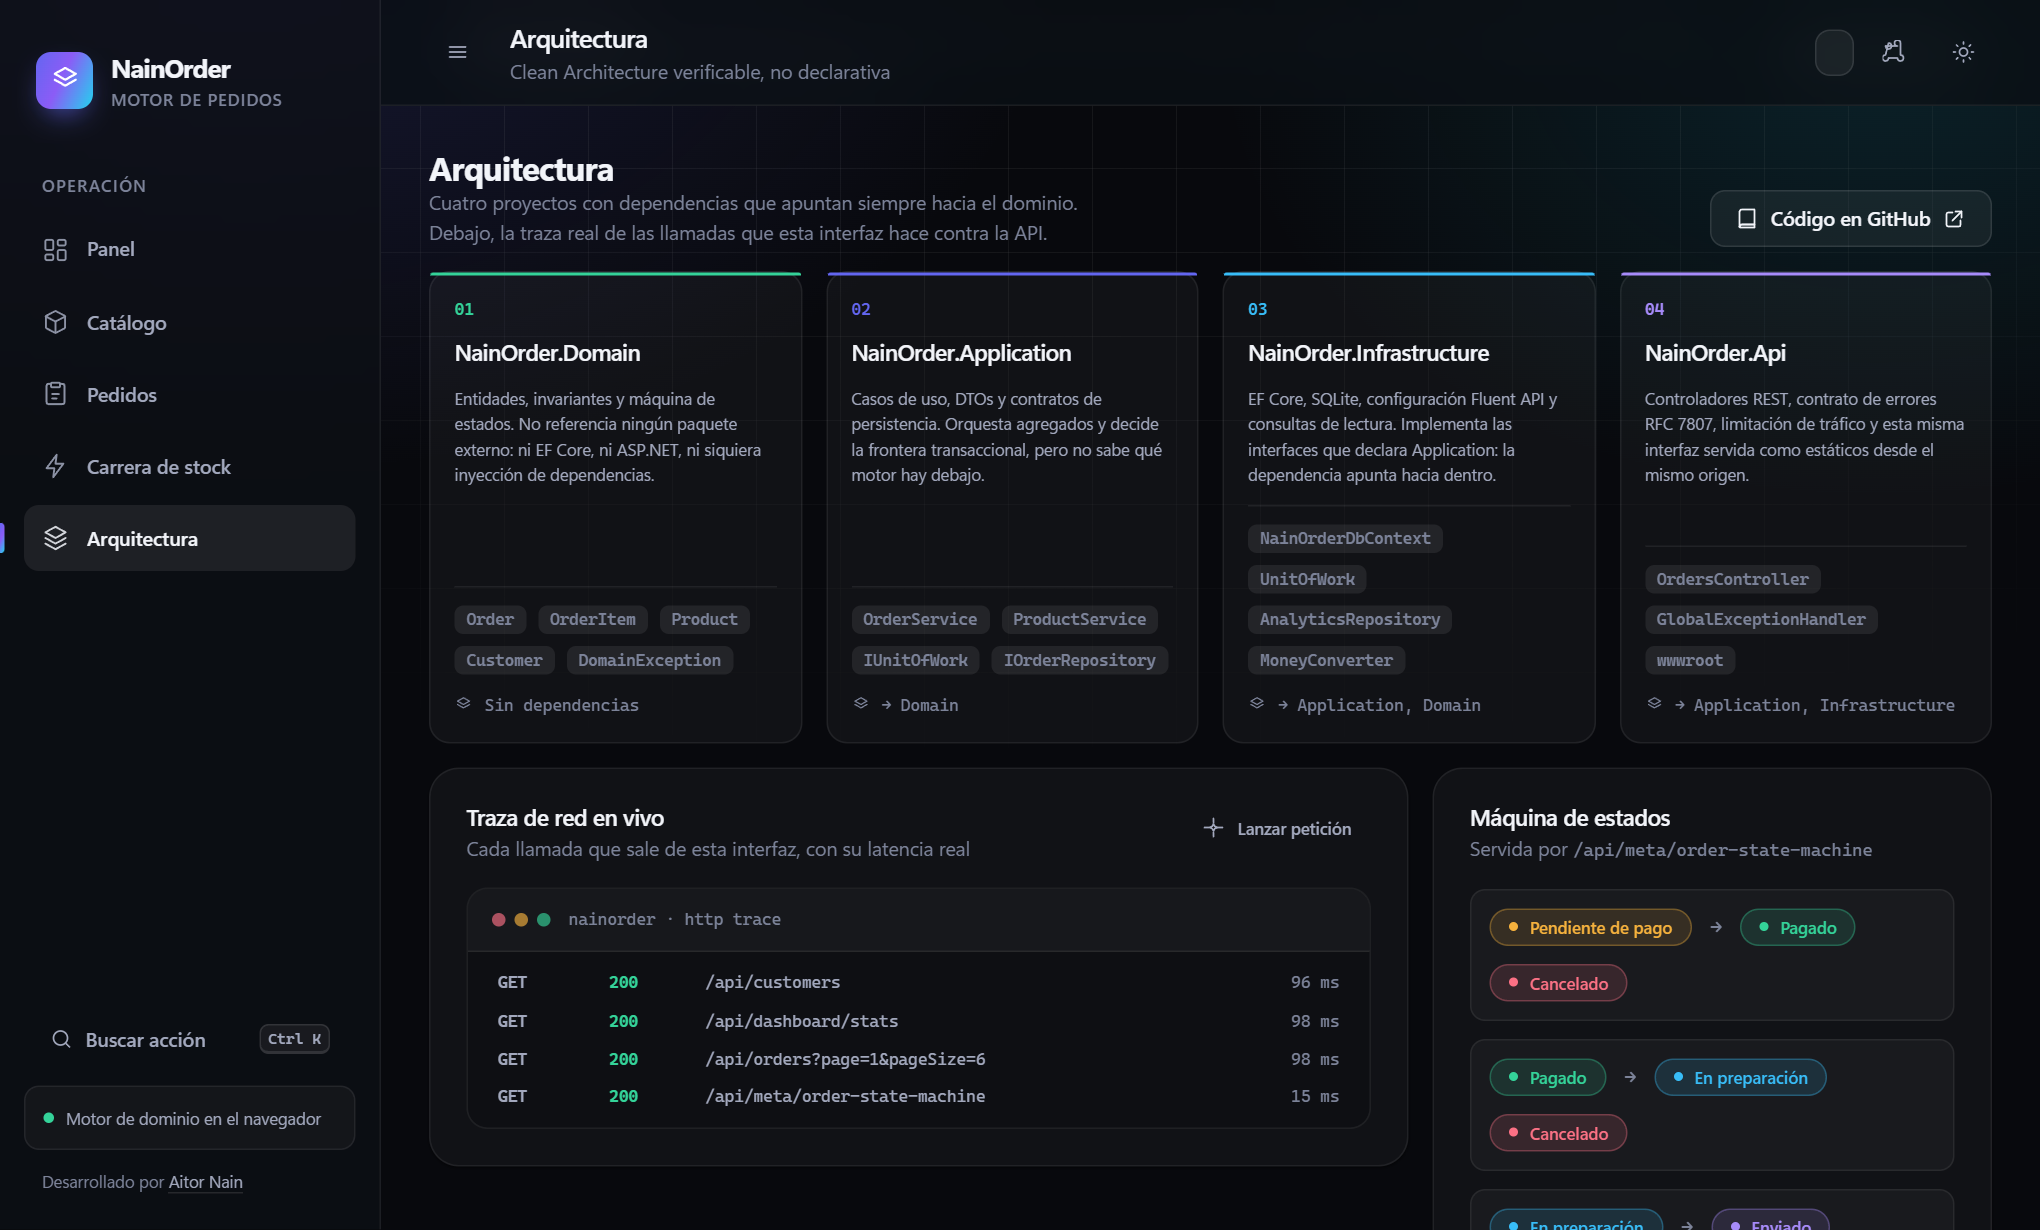
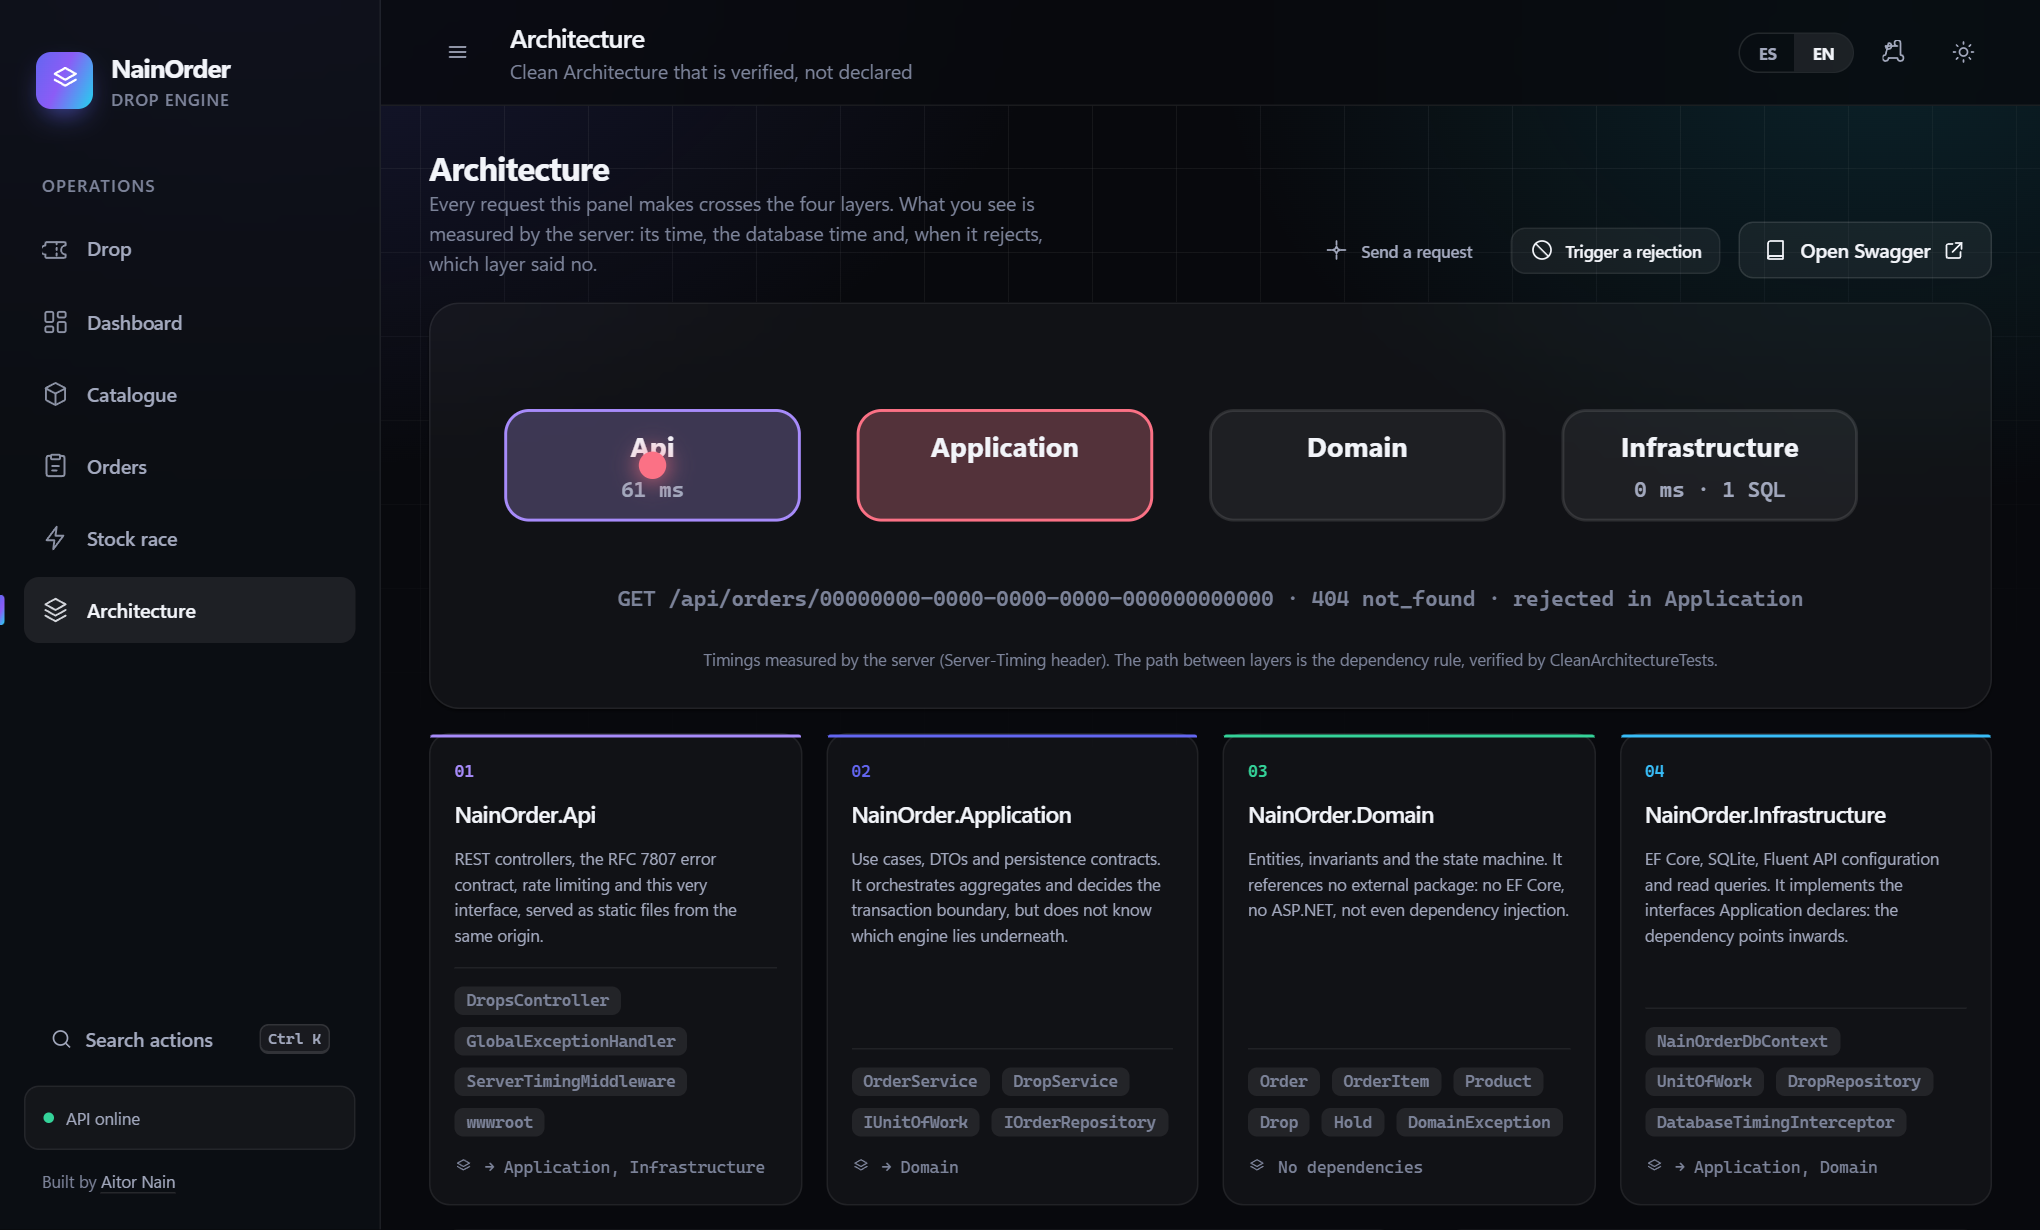
docs: show the live request map and trace REQ-110 to REQ-113
The README's architecture section opens with two captures of the live
map (a success and a rejection) and folds the static figure. Spec 005
records the honesty rule: the map draws only what the server states.
Requirements, traceability, changelog and the spec's tasks are updated.

diff --git a/README.md b/README.md
@@ -11,7 +11,7 @@
 [![ci](https://github.com/Nain9Dev/NainOrder/actions/workflows/ci.yml/badge.svg)](https://github.com/Nain9Dev/NainOrder/actions/workflows/ci.yml)
 [![CodeQL](https://github.com/Nain9Dev/NainOrder/actions/workflows/codeql.yml/badge.svg)](https://github.com/Nain9Dev/NainOrder/actions/workflows/codeql.yml)
 ![.NET 10](https://img.shields.io/badge/.NET-10-512BD4)
-![Tests](https://img.shields.io/badge/tests-123%20.NET%20%2B%2025%20browser-2ea44f)
+![Tests](https://img.shields.io/badge/tests-130%20.NET%20%2B%2029%20browser-2ea44f)
 ![Client dependencies](https://img.shields.io/badge/client%20dependencies-0-22d3ee)
 [![Live demo](https://img.shields.io/badge/live%20demo-order.naindev.com-8b5cf6)](https://order.naindev.com/)
 
@@ -66,14 +66,27 @@ flowchart LR
 
 ---
 
-## Architecture
+## Architecture, live
 
+<p align="center">
+  <img src="docs/assets/request-map.png" alt="Request map: a request crossing Api, Application, Domain and Infrastructure, with the server's measured time and database time" width="92%">
+</p>
+
+<p align="center">
+  <img src="docs/assets/request-map-rejected.png" alt="The same map for a rejected request: the dot stops at Application, which the server named as the layer that said no" width="92%">
+</p>
+
+Every request the panel makes crosses the four layers on screen. Nothing is guessed: the server sends
+its own timings (`Server-Timing`) and, for a rejection, the **layer that said no** (`layer` in the
+problem document). The order of the layers is the dependency rule, and `NetArchTest` fails the build
+if `Domain` references anything or `Application` learns about EF Core.
+
+<details>
+<summary>The four layers, static</summary>
 <p align="center">
   <img src="docs/assets/architecture.svg" alt="Four nested layers: Api, Infrastructure, Application and Domain. Dependencies point inwards." width="92%">
 </p>
-
-The rule is **enforced, not declared**: `NetArchTest` fails the build if `Domain` references anything or
-`Application` learns about EF Core.
+</details>
 
 <p align="center">
   <img src="docs/assets/panel-race.png" alt="Stock race: 24 buyers compete for 5 units; 5 win, 19 are rejected" width="46%">
@@ -94,7 +107,8 @@ The panel is plain ES modules served by the API itself: no npm, no build step, n
 | Stock is never oversold, even in a race | `StockRaceTests`, `ConcurrencyTests` |
 | Two writers on one order never lose an update | `OrderAggregateConcurrencyProbe` |
 | Domain has zero dependencies | `CleanArchitectureTests` |
-| The QR code is the buyer link, the shell works offline, the phone layout fits | `e2e/` — 25 browser tests (Playwright) against the real app, QR decoded by an independent library |
+| The QR code is the buyer link, the shell works offline, the phone layout fits | `e2e/` — 29 browser tests (Playwright) against the real app, QR decoded by an independent library |
+| The request map shows measured figures, never estimates | `RequestObservabilityTests`: `Server-Timing` and the `layer` of every rejection come from the server |
 | The shipped container works | CI builds the image and probes it |
 
 Every requirement maps to a test in [`docs/50-traceability.md`](docs/50-traceability.md).
@@ -112,8 +126,8 @@ Open <http://localhost:8170> → **Try as a buyer** or **Try as an organizer**. 
 and `/health`. No database to install: SQLite creates itself.
 
 ```bash
-dotnet test NainOrder.slnx -c Release          # 123 tests
-cd e2e && npm ci && npx playwright test        # 25 browser tests (starts the app itself)
+dotnet test NainOrder.slnx -c Release          # 130 tests
+cd e2e && npm ci && npx playwright test        # 29 browser tests (starts the app itself)
 docker build -t nainorder . && docker run -p 8080:8080 nainorder
 ```
 

diff --git a/docs/50-traceability.md b/docs/50-traceability.md
@@ -1,6 +1,6 @@
 # Traceability
 
-**Status:** Active · verified against green runs of `dotnet test NainOrder.slnx -c Release` (123/123 tests) and `npx playwright test` in `e2e/` (25/25 browser tests)
+**Status:** Active · verified against green runs of `dotnet test NainOrder.slnx -c Release` (130/130 tests) and `npx playwright test` in `e2e/` (29/29 browser tests)
 
 Every requirement in [10-requirements.md](10-requirements.md) and the test that demonstrates it.
 A requirement with no test is not done, whatever the code says.
@@ -19,6 +19,7 @@ Test suites:
 | `Api.DropFlowTests` | Integration, concurrent | Drops over HTTP with a hand-moved clock, a 40-buyer crowd and UTC serialisation |
 | `e2e/tests/*.spec.ts` | Browser (Playwright), real application | Landing, roles, language, buyer link and QR, offline shell, 360 px layout |
 | `Api.PwaAssetsTests` | Contract | Manifest, icons and service-worker precache list match the files served |
+| `Api.RequestObservabilityTests` | Integration over HTTP | `Server-Timing` and the `layer` of every rejection: the facts the request map draws |
 | `Api.I18nParityTests` | Contract | Both panel languages define the same keys and placeholders |
 | `Api.StockRaceTests` | Integration, concurrent | The on-demand race: many buyers, few units, verdict from persisted stock |
 | `Api.GlobalExceptionHandlerTests` | Contract/Unit | RFC 7807 error translation and production 500 detail sanitization |
@@ -118,6 +119,15 @@ Test suites:
 | REQ-104 | `e2e/tests/buyer-link.spec.ts` › the QR code decodes to the buyer link; copy puts the buyer link on the clipboard |
 | REQ-105 | `e2e/tests/buyer-link.spec.ts` › the QR code decodes to the buyer link (decoded by `jsQR`, independent of the encoder); the encoder is `assets/js/qr.js`, with no dependency |
 | REQ-106 | `PwaAssetsTests.Every_precache_entry_points_at_a_file_that_exists`, `Every_static_asset_of_the_panel_is_precached`, `The_service_worker_never_handles_the_api_or_non_get_requests` |
+
+## Live request map
+
+| Requirement | Test |
+| :--- | :--- |
+| REQ-110 | `RequestObservabilityTests.A_catalogue_read_reports_the_whole_request_and_its_database_time`, `The_read_side_that_runs_raw_sql_is_timed_too`, `A_read_that_never_touches_the_database_reports_no_db_segment` |
+| REQ-111 | `RequestObservabilityTests.A_domain_rule_names_the_domain_layer`, `A_missing_resource_names_the_application_layer`, `A_validation_failure_names_the_api_layer`, `An_unknown_route_names_the_api_layer` |
+| REQ-112 | `e2e/tests/architecture.spec.ts` › a request crosses the map and shows the server's timings; a rejection stops at the layer the server named; a domain rule shows as rejected in Domain |
+| REQ-113 | `e2e/tests/architecture.spec.ts` › on the in-browser engine the map shows a single node |
 
 ## HTTP contract
 

diff --git a/specs/005-request-map/spec.md b/specs/005-request-map/spec.md
@@ -1,0 +1,33 @@
+# 005 — Live request map
+
+**Status:** Draft — direction: "keep improving the visual architecture" (owner, 2026-10-21, decisions delegated).
+
+## Goal
+
+The Architecture view stops describing the layers and shows them working: every request the panel
+makes travels across the four layers on screen, with the time it really took and, when it is
+rejected, the layer that rejected it. A visitor understands Clean Architecture by watching a
+purchase go through it, not by reading four paragraphs.
+
+## Honesty rule
+
+The panel must not invent what happened inside the server. Everything the map shows is a fact the
+server states in the response:
+
+- the total time and the database time, measured where they happen;
+- for a rejection, the layer whose rule decided it.
+
+What the map draws between those facts — the order Api → Application → Domain → Infrastructure —
+is not a guess either: it is the dependency rule, enforced by `CleanArchitectureTests`.
+
+## Requirements (EARS)
+
+- **REQ-110** — Every API response shall carry a `Server-Timing` header with `app;dur=<ms>` measured for the whole request and, when the database was used, `db;dur=<ms>` summed from the real duration of every command the request executed, with the command count in its description.
+- **REQ-111** — Every `application/problem+json` response shall carry a `layer` extension naming where the rejection was decided: `domain` for a domain rule, `application` for a use-case rule (not found, duplicate), `infrastructure` for a concurrency conflict detected on write, `api` for validation, routing and rate limiting.
+- **REQ-112** — When the panel completes a request against the API, the Architecture view shall animate it across the layers in dependency order and show the server's `app` and `db` times; when the response is a rejection, the animation shall stop at the layer the server named and show the code.
+- **REQ-113** — Where the panel runs on its in-browser engine, the map shall show a single "browser engine" node and shall not pretend the request crossed the server's layers.
+
+## Non-goals
+
+- Distributed tracing, OpenTelemetry or an exporter: the facts stay in the response headers.
+- Per-layer durations for Application and Domain: they are not measured, so they are not shown.

diff --git a/docs/10-requirements.md b/docs/10-requirements.md
@@ -112,6 +112,18 @@ verified in a real browser by `e2e/`; the QR code is decoded by an independent l
 | REQ-105 | The QR code shall be generated in the browser without any third-party library or service, and shall encode the drop's buyer link exactly. |
 | REQ-106 | The service worker's precache list shall name every static asset of the panel and no file that does not exist, and the service worker shall never handle `/api` or a non-GET request. |
 
+## Live request map
+
+From [specs/005-request-map](../specs/005-request-map/spec.md). The map draws only what the server
+states; the server side is verified by `RequestObservabilityTests`, the panel side by `e2e/`.
+
+| ID | Requirement |
+| :--- | :--- |
+| REQ-110 | Every API response shall carry a `Server-Timing` header with `app;dur=<ms>` measured for the whole request and, when the database was used, `db;dur=<ms>` summed from the real duration of every command the request executed, with the command count in its description. |
+| REQ-111 | Every `application/problem+json` response shall carry a `layer` extension naming where the rejection was decided: `domain` for a domain rule, `application` for a use-case rule, `infrastructure` for a concurrency conflict detected on write, `api` for validation, routing and rate limiting. |
+| REQ-112 | When the panel completes a request against the API, the Architecture view shall animate it across the layers in dependency order and show the server's `app` and `db` times; when the response is a rejection, the animation shall stop at the layer the server named and show the code. |
+| REQ-113 | Where the panel runs on its in-browser engine, the map shall show a single "browser engine" node and shall not pretend the request crossed the server's layers. |
+
 ## HTTP contract
 
 | ID | Requirement |

diff --git a/specs/005-request-map/plan.md b/specs/005-request-map/plan.md
@@ -1,0 +1,28 @@
+# 005 — Plan
+
+## Server facts
+
+- `RequestDatabaseTiming` (Infrastructure, scoped): accumulates the duration and count of the EF
+  Core commands a request executes, fed by a `DbCommandInterceptor` registered per scope.
+- `ServerTimingMiddleware` (Api): a stopwatch around the pipeline; on response start writes
+  `Server-Timing: app;dur=…[, db;dur=…;desc="n commands"]`. It reads the accumulator from the
+  request's services, so Api still knows nothing of EF Core.
+- `GlobalExceptionHandler` adds `layer` from the exception type; `CustomizeProblemDetails` in
+  `Program.cs` fills `layer: "api"` for problems the handler never sees (validation, 404 route, 429).
+
+## Panel
+
+- `api.js` parses `Server-Timing` and the problem's `layer` into the trace entry (the body is read
+  before the trace is published).
+- `views/architecture.js` gains a request map: an SVG with four nodes in dependency order and a
+  travelling dot per trace. Success: Api → Application → Domain → Infrastructure and back, with the
+  `db` segment shown on the Infrastructure node and `app` on the Api node. Rejection: the dot stops
+  at the named layer, turns red and shows the code. In demo mode: one node, "browser engine".
+- The trace console stays; the map sits above it as the view's first thing to see.
+
+## Verification
+
+- `RequestObservabilityTests` (integration, written first): header present with `app`; `db` present
+  on a catalogue read and absent on the state-machine read; `layer` per rejection type.
+- `e2e/tests/architecture.spec.ts`: a request lights the map and shows the server's times; a
+  rejection stops at the named layer.

diff --git a/docs/90-changelog.md b/docs/90-changelog.md
@@ -8,6 +8,11 @@ Notable changes. Format loosely follows Keep a Changelog; dates come from git.
 
 ### Added
 
+- Live request map (`specs/005-request-map`): the Architecture view animates every request across
+  the four layers with the server's own figures. Every response now carries `Server-Timing`
+  (`app`, and `db` with the command count, measured by an EF Core interceptor and by the read
+  side's raw commands), and every problem document names the `layer` that decided the rejection.
+  REQ-110 to REQ-113.
 - Browser tests (`e2e/`, ADR-0011): 25 Playwright tests against the real application cover the
   landing, the buyer and organizer views, the language selector, the buyer link and its QR code
   (decoded by an independent library), the offline shell and the 360 px layout. They run in their own
@@ -81,6 +86,9 @@ Notable changes. Format loosely follows Keep a Changelog; dates come from git.
 
 ### Fixed
 
+- Model-validation failures (`400`) were labelled `application/json` instead of
+  `application/problem+json`, against REQ-050: the controllers' `[Produces]` filter rewrote the
+  content type. They now go out as a problem document like every other failure.
 - Panel: dashboard KPIs rendered `0` because the card helper read a misnamed property; the Architecture
   view printed its header button as raw markup; each navigation hid the first lines of a view under the
   sticky top bar. Buttons that start `hidden` (active order, install) showed as empty squares in the

diff --git a/specs/005-request-map/tasks.md b/specs/005-request-map/tasks.md
@@ -1,0 +1,17 @@
+# 005 — Tasks
+
+| ID | Task | Label | Done when |
+| :--- | :--- | :--- | :--- |
+| T-070 | `RequestObservabilityTests` first: `Server-Timing` and `layer` | `[A]` | ✅ Red, then green (REQ-110, REQ-111) |
+| T-071 | Database timing accumulator and interceptor, middleware, `layer` in problems | `[A]` | ✅ 130 tests green; no change in Domain or Application |
+| T-072 | Request map in the Architecture view, fed by the trace bus | `[A]` | ✅ Verified in a browser on both engines (REQ-112, REQ-113) |
+| T-073 | Browser test for the map | `[A]` | ✅ `e2e/tests/architecture.spec.ts`, 4 tests, 29/29 green |
+| T-074 | README: architecture section shows the live map | `[A]` | ✅ Two captures (a success, a rejection) replace the static figure, kept under a fold |
+
+## Handoff
+
+Found on the way: the read side runs raw ADO.NET commands that EF Core's interceptor never sees, so
+the repository records them itself (or the dashboard would look free); and model-validation `400`s
+were served as `application/json`, now fixed (REQ-050). The .NET host crashed once during development
+from a self-recursive helper introduced by a bulk replace — a reminder that `replace_all` needs a
+look at every hit. Nothing is left open in this spec.
